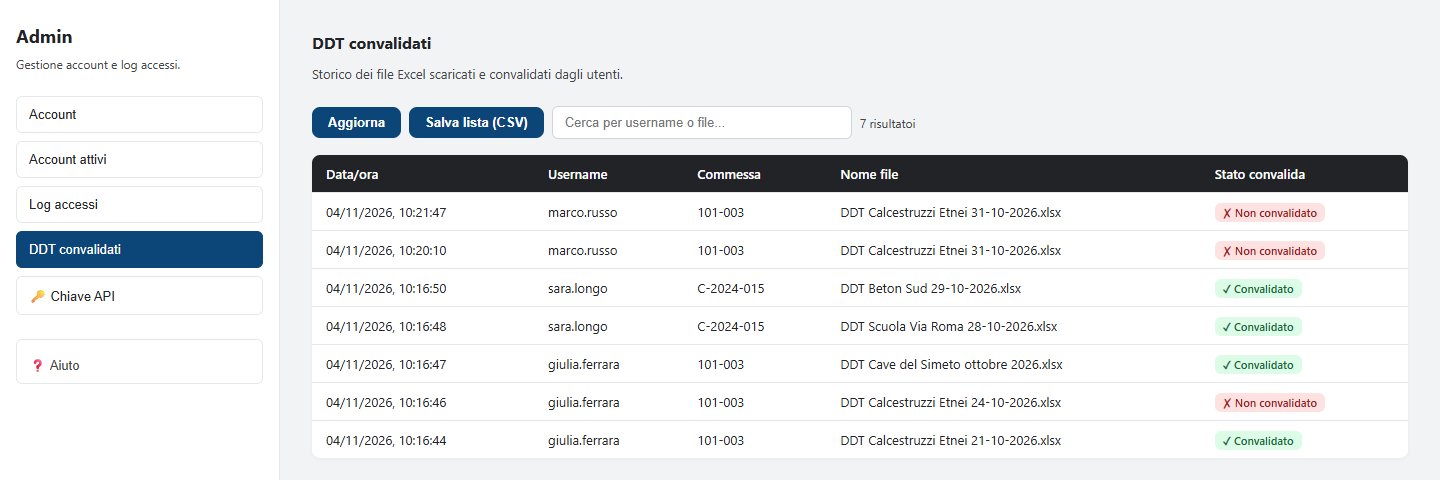
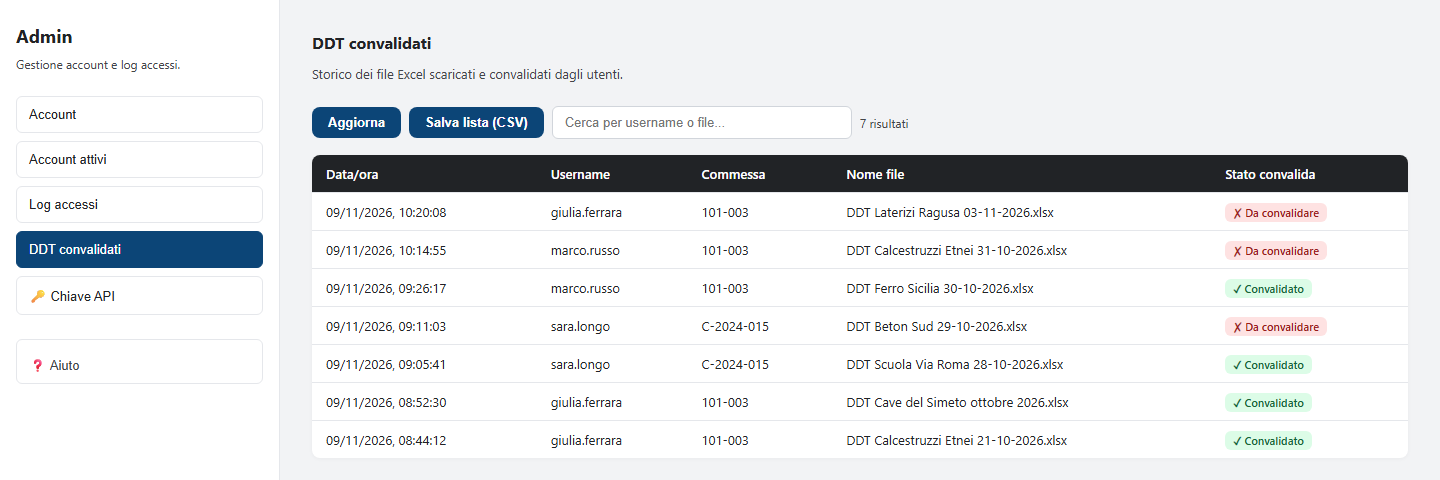
docs(lettore-ddt): immagine "DDT convalidati" con le diciture nuove
lettore-ddt/docs/guida/img/21-admin-ddt-convalidati.png mostrava "Non convalidato" e il conteggio
"7 risultatoi", di prima della correzione della convalida. Rifatta dall'app avviata da dist/ con dati
temporanei (data.json inventato, archivio utenti di prova; users.enc vero non toccato). In
05-pannello-admin.md tolta la nota che scusava la vecchia immagine.

diff --git a/lettore-ddt/docs/guida/05-pannello-admin.md b/lettore-ddt/docs/guida/05-pannello-admin.md
@@ -79,8 +79,8 @@ la ricerca.
 Ogni Excel scaricato dalla scheda Importa entra come *✗ Da convalidare*; quando l'utente clicca **✓ Dati
 convalidati** la **stessa riga** passa a *✓ Convalidato* con l'ora della convalida (dal 06/11/2026: prima il
 pulsante non aggiornava lo stato). La convalida compare anche nel **Log accessi** come *DDT convalidato* e nel
-registro del Portale come *Excel verificato · convalidato*. Nell'immagine le righe sono quelle di prima della
-correzione, con la vecchia dicitura *Non convalidato*.
+registro del Portale come *Excel verificato · convalidato*. Nell'immagine: quattro Excel già convalidati e tre
+ancora da convalidare (dati inventati).
 
 ## Chiave API
 
